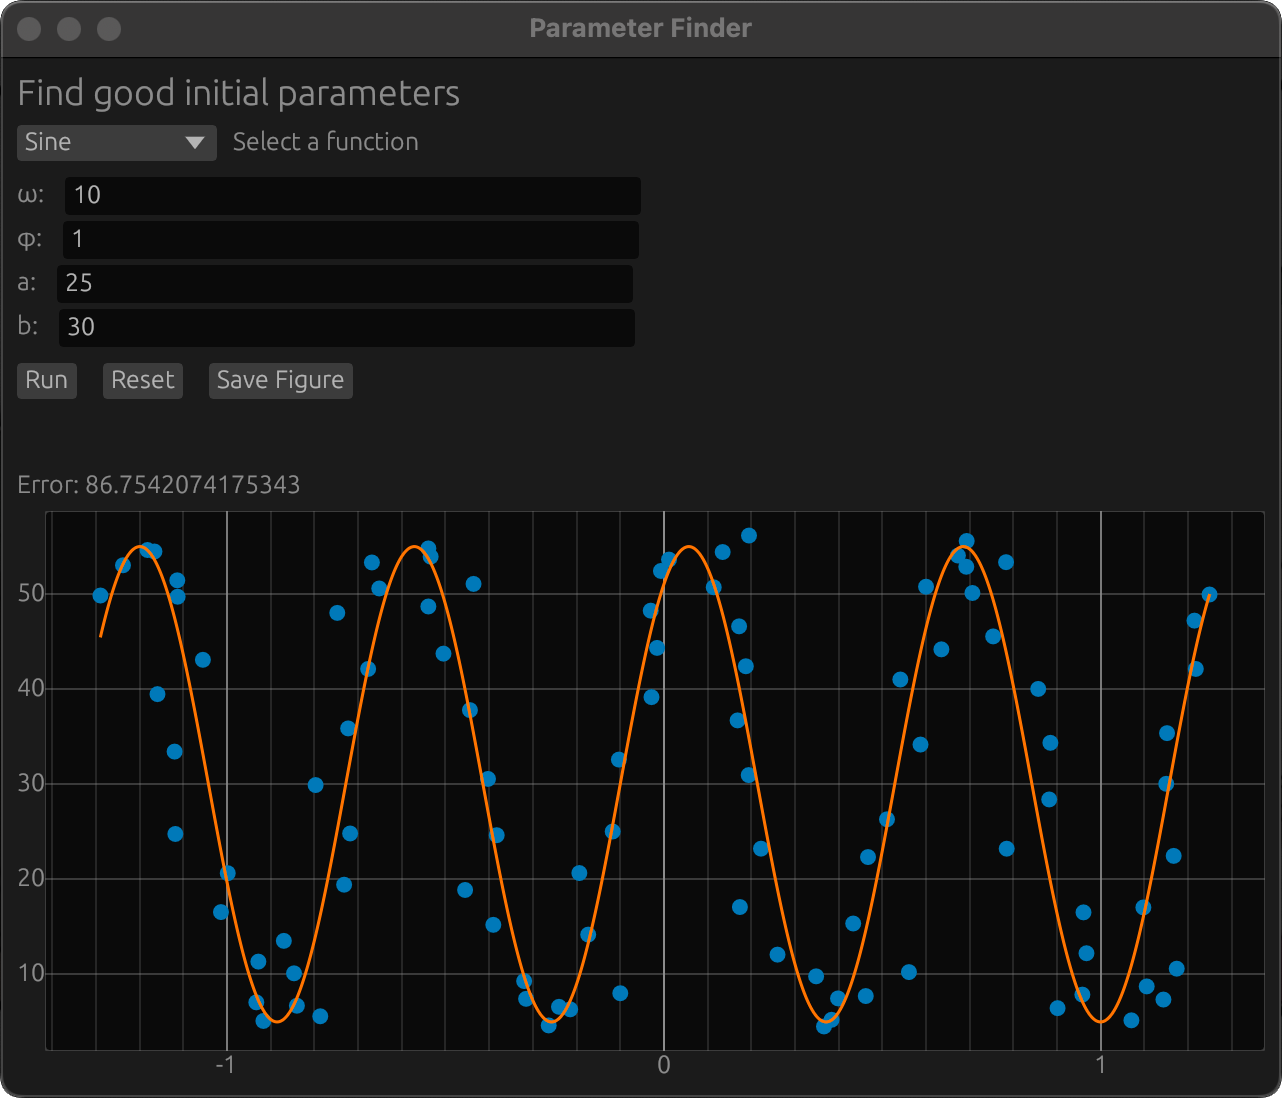
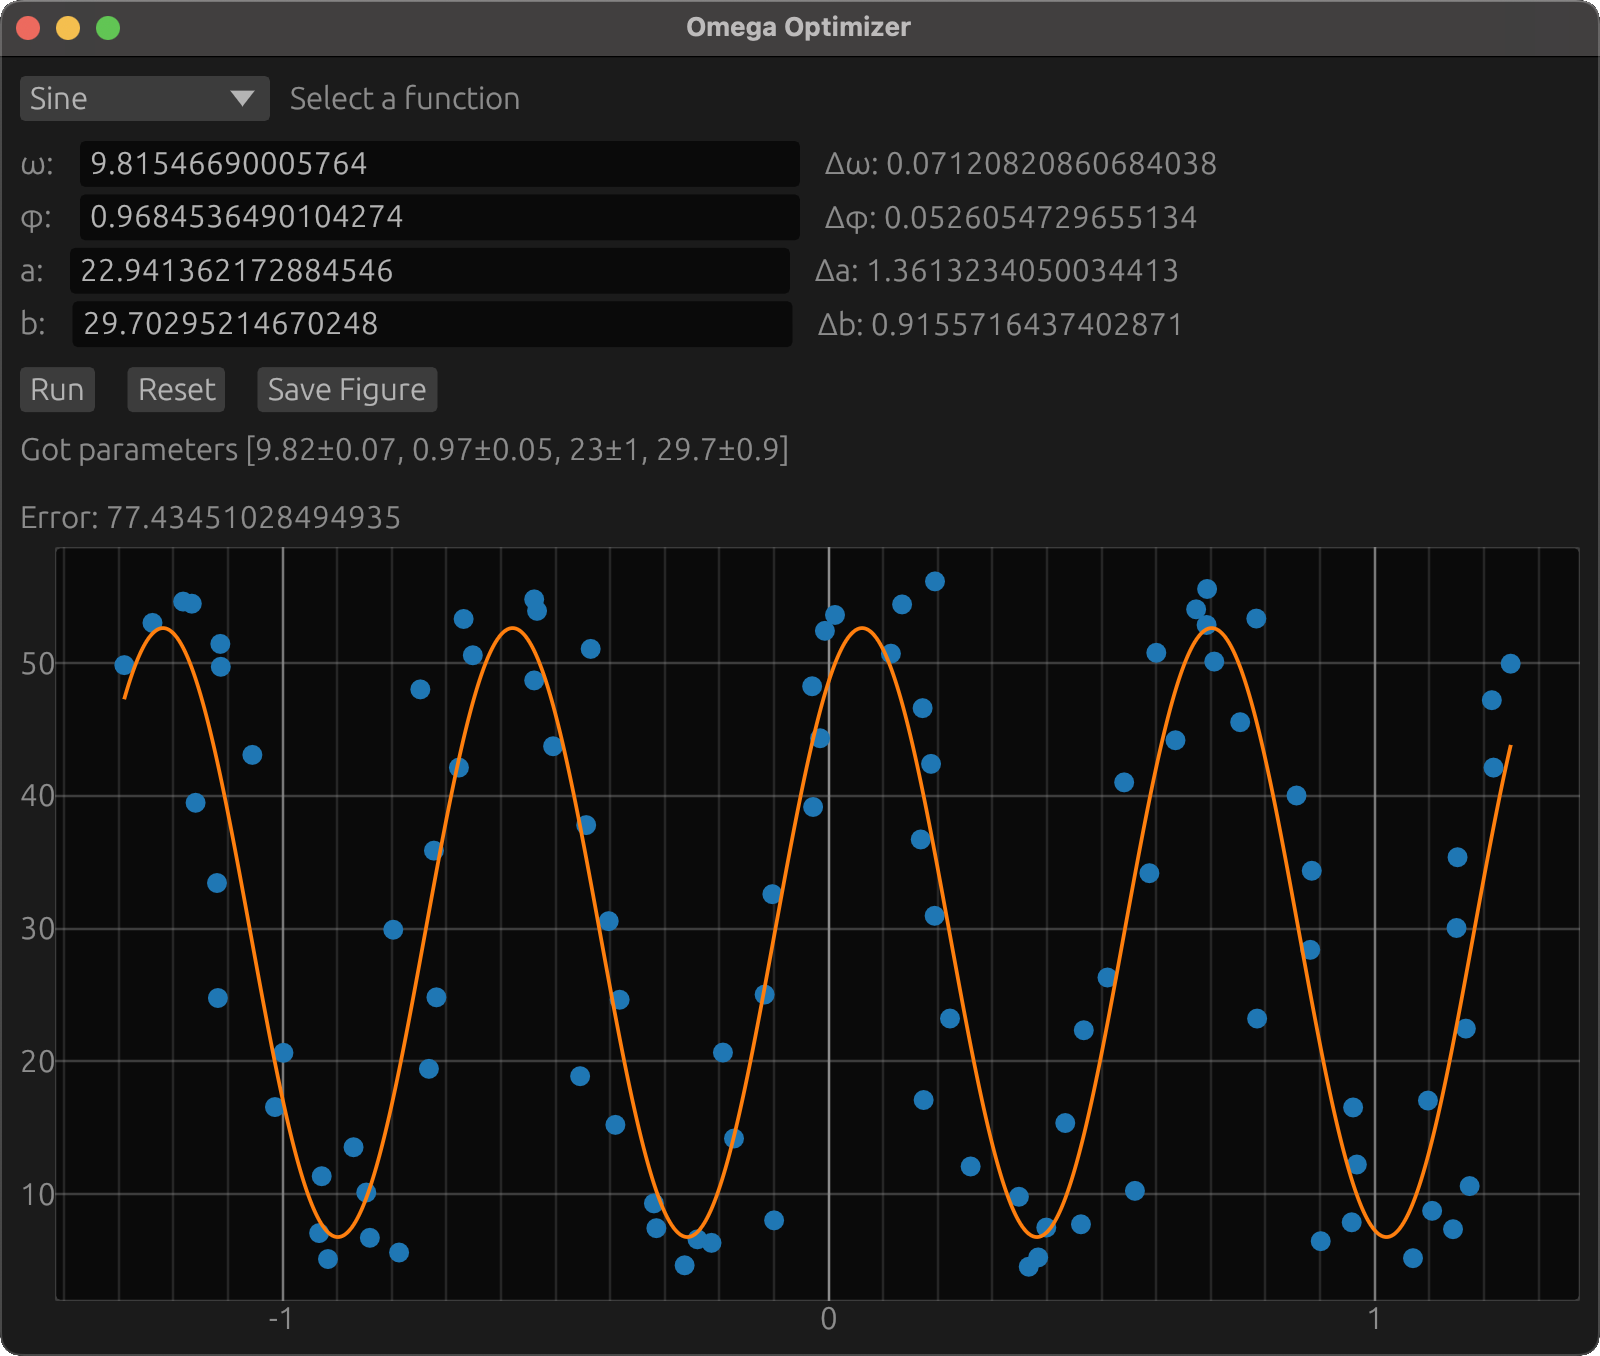
small gui improvements

diff --git a/src/parameter_gui.rs b/src/parameter_gui.rs
@@ -21,9 +21,16 @@ pub fn create_gui(
     initial_parameters: Option<Vec<f64>>,
 ) {
     const SCALE: f32 = 1.25;
+    const ICON: &[u8; 64 * 64 * 4] = include_bytes!("../media/icon.raw");
 
     let options = eframe::NativeOptions {
-        viewport: egui::ViewportBuilder::default().with_inner_size([640.0 * SCALE, 520.0 * SCALE]),
+        viewport: egui::ViewportBuilder::default()
+            .with_icon(egui::IconData {
+                rgba: ICON.to_vec(),
+                width: 64,
+                height: 64,
+            })
+            .with_inner_size([640.0 * SCALE, 520.0 * SCALE]),
         follow_system_theme: false,
         ..Default::default()
     };
@@ -31,7 +38,7 @@ pub fn create_gui(
     let datafile_clone = datafile.to_path_buf();
 
     eframe::run_native(
-        "Parameter Finder",
+        "Omega Optimizer",
         options,
         Box::new(|cc| {
             cc.egui_ctx.set_zoom_factor(SCALE);
@@ -144,10 +151,6 @@ impl MyApp {
 impl eframe::App for MyApp {
     fn update(&mut self, ctx: &egui::Context, _frame: &mut eframe::Frame) {
         egui::CentralPanel::default().show(ctx, |ui| {
-            ui.heading("Find good initial parameters");
-
-            ui.add_space(2.0);
-
             // Function combo box
             egui::ComboBox::from_label("Select a function")
                 .selected_text(format!("{:?}", self.function))
